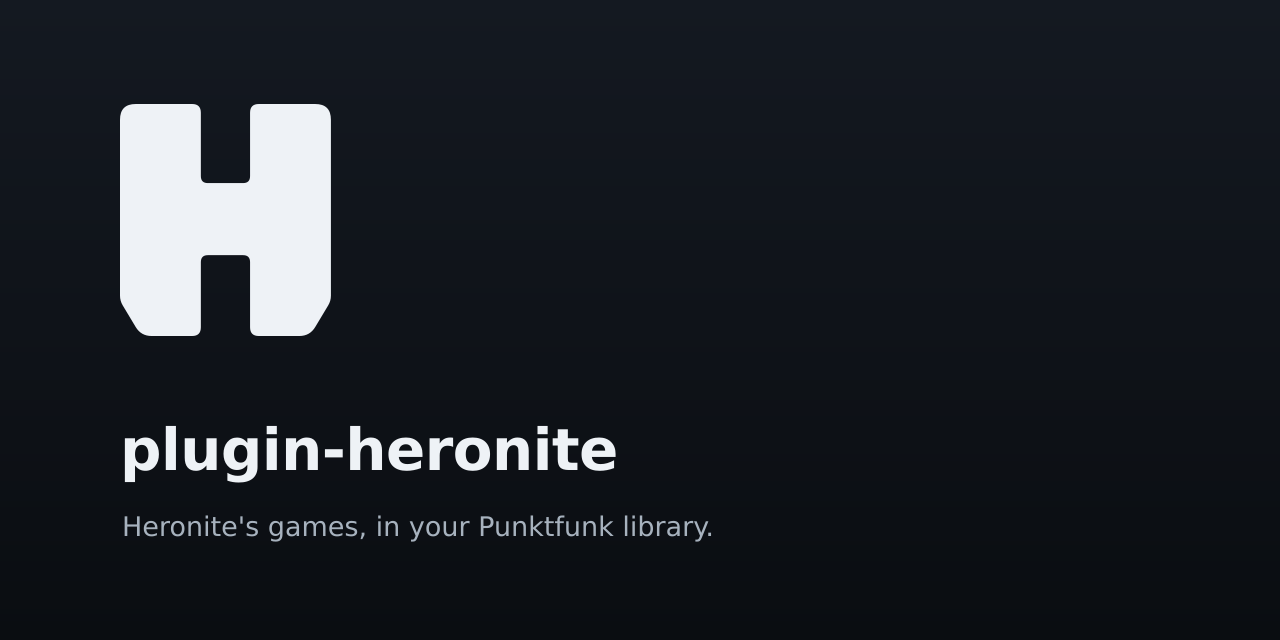
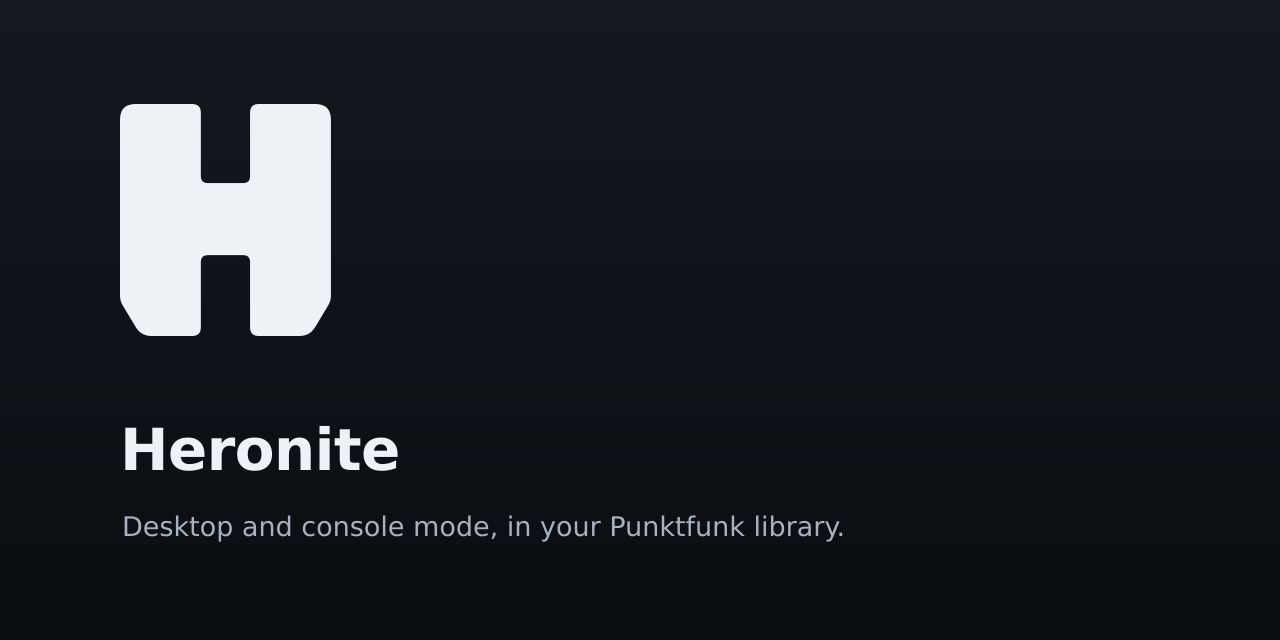
docs(brand): name the tiles, not the package
The two tiles the plugin adds to the library are named Heronite and
Heronite Console, so the wordmark now says Heronite and the tagline says what
the tiles give you: desktop and console mode, in your Punktfunk library.

The repository description, package.json and README now use one plainer
sentence instead of a colon and a list.

Changed region(s): [[0.0938, 0.6562, 0.5, 0.75], [0.0938, 0.7812, 0.6562, 0.8438]]

diff --git a/README.md b/README.md
@@ -2,12 +2,11 @@
 
 [![Formatted with Biome](https://img.shields.io/badge/Formatted_with-Biome-60a5fa?style=flat&logo=biome)](https://biomejs.dev/) [![Linted with Biome](https://img.shields.io/badge/Linted_with-Biome-60a5fa?style=flat&logo=biome)](https://biomejs.dev) [![Checked with Biome](https://img.shields.io/badge/Checked_with-Biome-60a5fa?style=flat&logo=biome)](https://biomejs.dev)
 
-![Heronite's H mark beside the plugin's name](assets/brand/banner.png)
+![Heronite's H mark beside its name](assets/brand/banner.png)
 
-A [Punktfunk](https://git.unom.io/unom/punktfunk) host plugin. It adds your
-[Heronite](https://heronite.app) games to the host library and starts them through Heronite.
-Heronite's Wine or Proton prefix, emulator profile, playtime and console mode then apply as they do
-when you press **Play** in Heronite.
+A [Punktfunk](https://git.unom.io/unom/punktfunk) plugin for [Heronite](https://heronite.app). Your
+Heronite games show up in the host library, and each one starts the way Heronite starts it, with the
+same Wine or Proton prefix, emulator profile, playtime and console mode.
 
 New to Punktfunk? [What is Punktfunk?](docs/punktfunk.md) explains the host and client model, how a
 stream flows, and where plugins operate. New to Heronite? [What is Heronite?](docs/heronite.md)

diff --git a/assets/brand/README.md b/assets/brand/README.md
@@ -16,8 +16,11 @@ sources.
 ## How they are made
 
 The colours are the custom properties of heronite.app: `--text` `#eef2f6` for the mark and the name,
-`--muted` `#a7b2be` for the tagline, and a plate that runs from `--surface-2` `#141921` to `--bg`
-`#0a0d11`.
+`--muted` `#a7b2be` for the tagline, and a plate that runs from `--surface-2` `#141921` to `#0a0d11`.
+
+The wordmark says **Heronite**, because that is the name of the two tiles that the plugin adds to the
+library: **Heronite** and **Heronite Console**. The tagline names what the tiles give the user, and
+keeps the name of the plugin out of the picture, where it would say nothing.
 
 Both are SVG. Each draws Heronite's `H` from
 [../heronite-marks/heronite.svg](../heronite-marks/heronite.svg) with a `translate`/`scale` pair and
